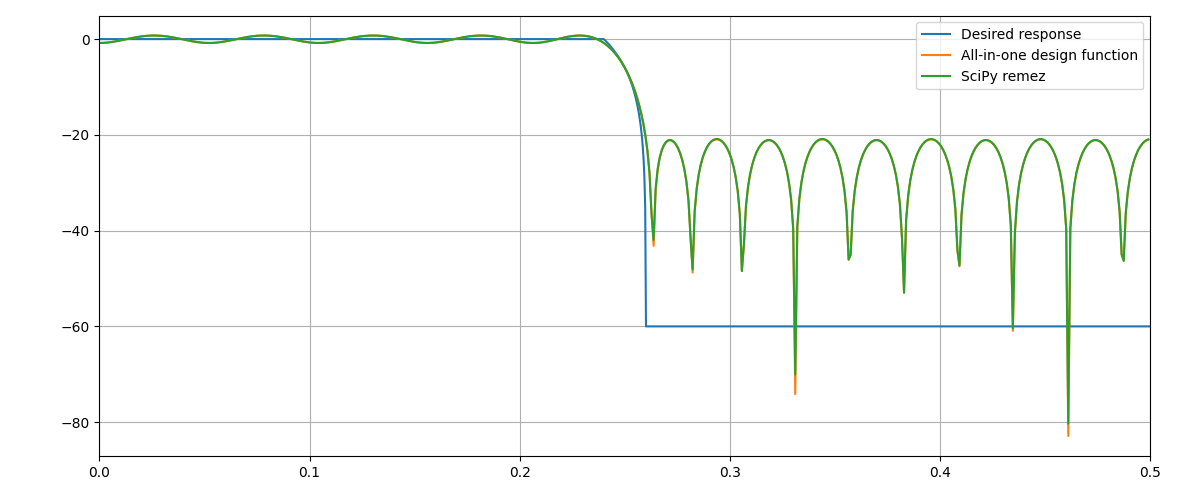
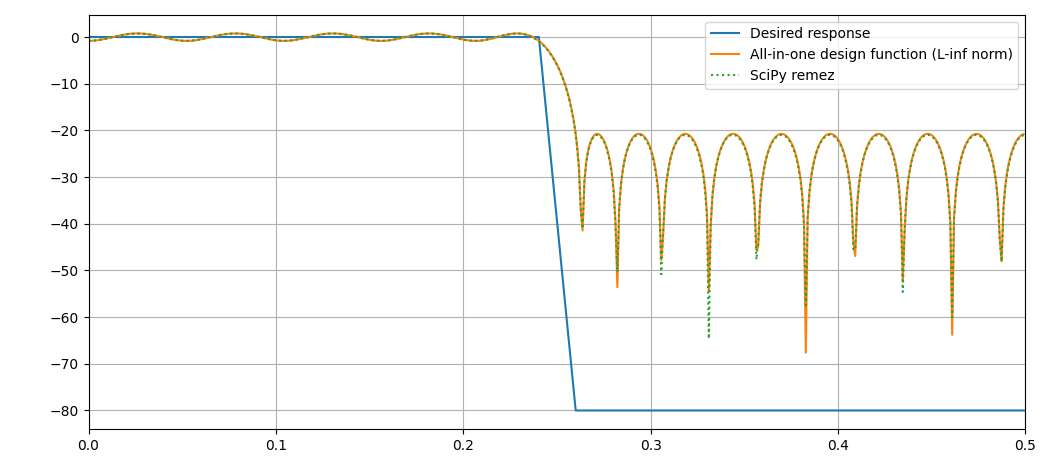
Small adjustments

diff --git a/firdes.py b/firdes.py
@@ -23,19 +23,36 @@ def linear_ramp(xs, ys, x):
     return y_prev + ((x - x_prev) * slope)
 
 
-def firdes(num_taps, bands, desired, antisymmetric=False, norm="inf", grid_density=32):
+def firdes(
+    num_taps,
+    bands,
+    desired,
+    antisymmetric=False,
+    norm="inf",
+    grid_density=32,
+    no_trans=True,
+):
     order = num_taps - 1
     even_order = order % 2 == 0
 
-    fs = []
-    D = []
-
     desired = list(map(lambda x: np.pow(10, x / 20), desired))
-    _f_resp = partial(linear_ramp, bands, desired)
     step = 0.5 / ((num_taps + 1) * grid_density)
 
-    fs = np.arange(0.0, 0.5 + step, step)
-    D = np.array([_f_resp(f) for f in fs])
+    if no_trans:
+        fs = np.empty(0)
+        D = np.empty(0)
+        for i in range(1, len(bands)):
+            if np.abs(desired[i - 1] - desired[i]) > 1e-8:
+                continue
+            nfs = np.arange(bands[i - 1], bands[i] + step, step)
+            fs = np.concatenate([fs, nfs])
+            D = np.concatenate([D, np.ones(nfs.size) * desired[i]])
+    else:
+        fs = []
+        D = []
+        _f_resp = partial(linear_ramp, bands, desired)
+        fs = np.arange(0.0, 0.5 + step, step)
+        D = np.array([_f_resp(f) for f in fs])
 
     A = []
 
@@ -72,8 +89,7 @@ def firdes(num_taps, bands, desired, antisymmetric=False, norm="inf", grid_densi
 
     vx = cvx.Variable(x_dim)
     objective = cvx.Minimize(cvx.norm(A @ vx - D, norm))
-    constraints = [vx <= 1, vx >= -1]
-    prob = cvx.Problem(objective, constraints)
+    prob = cvx.Problem(objective)
     prob.solve(verbose=False)
     taps = np.array(vx.value)
 
@@ -96,15 +112,16 @@ def firdes(num_taps, bands, desired, antisymmetric=False, norm="inf", grid_densi
 
 if __name__ == "__main__":
     NUM_TAPS = 41
-    taps, fs, mags = firdes(NUM_TAPS, [0, 0.24, 0.26, 0.5], [0, 0, -60, -60])
+    As = -80
+    taps, fs, mags = firdes(NUM_TAPS, [0, 0.24, 0.26, 0.5], [0, 0, As, As])
     plt.plot(fs, 20 * np.log10(abs(mags)), label="Desired response")
 
     w, h = sig.freqz(taps, fs=1)
-    plt.plot(w, 20 * np.log10(abs(h)), label="All-in-one design function")
+    plt.plot(w, 20 * np.log10(abs(h)), label="All-in-one design function (L-inf norm)")
 
-    taps = sig.remez(NUM_TAPS, [0, 0.24, 0.26, 0.5], [1, 10 ** (-60 / 20)], fs=1)
+    taps = sig.remez(NUM_TAPS, [0, 0.24, 0.26, 0.5], [1, 10 ** (As / 20)], fs=1)
     w, h = sig.freqz(taps, fs=1)
-    plt.plot(w, 20 * np.log10(abs(h)), label="SciPy remez")
+    plt.plot(w, 20 * np.log10(abs(h)), label="SciPy remez", linestyle="dotted")
 
     plt.tight_layout()
     plt.grid(True)
@@ -115,10 +132,11 @@ if __name__ == "__main__":
     plt.plot(fs, 20 * np.log10(abs(mags)), label="Desired response")
     for norm in [1, 2, 3, "inf"]:
         taps, fs, mags = firdes(
-            NUM_TAPS, [0, 0.24, 0.26, 0.5], [0, 0, -60, -60], norm=norm
+            NUM_TAPS, [0, 0.24, 0.26, 0.5], [0, 0, As, As], norm=norm
         )
         w, h = sig.freqz(taps, fs=1)
-        plt.plot(w, 20 * np.log10(abs(h)), label=f"Norm: L{norm}")
+        norm_str = str(norm) if norm != "inf" else "\u221E"
+        plt.plot(w, 20 * np.log10(abs(h)), label=f"Norm: L{norm_str}")
 
     plt.tight_layout()
     plt.grid(True)

diff --git a/README.md b/README.md
@@ -6,4 +6,5 @@ and many optimization norms (thanks to CVXPY).
 
 ![fir1](images/fir1.png)
 ![fir2](images/fir2.png)
+![fir3](images/fir3.png)
 
